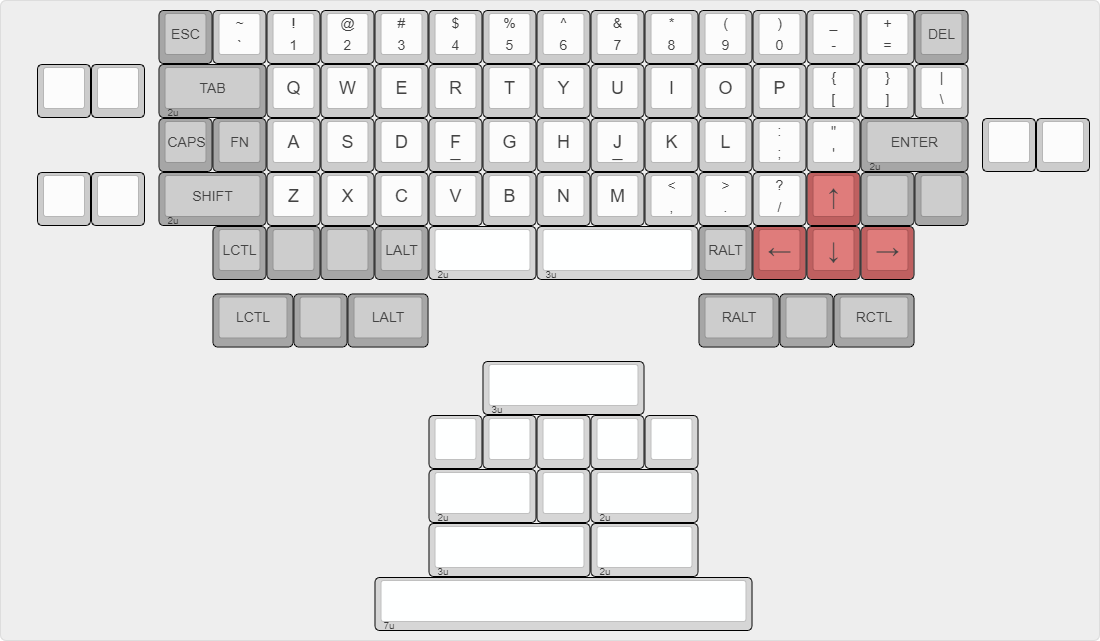
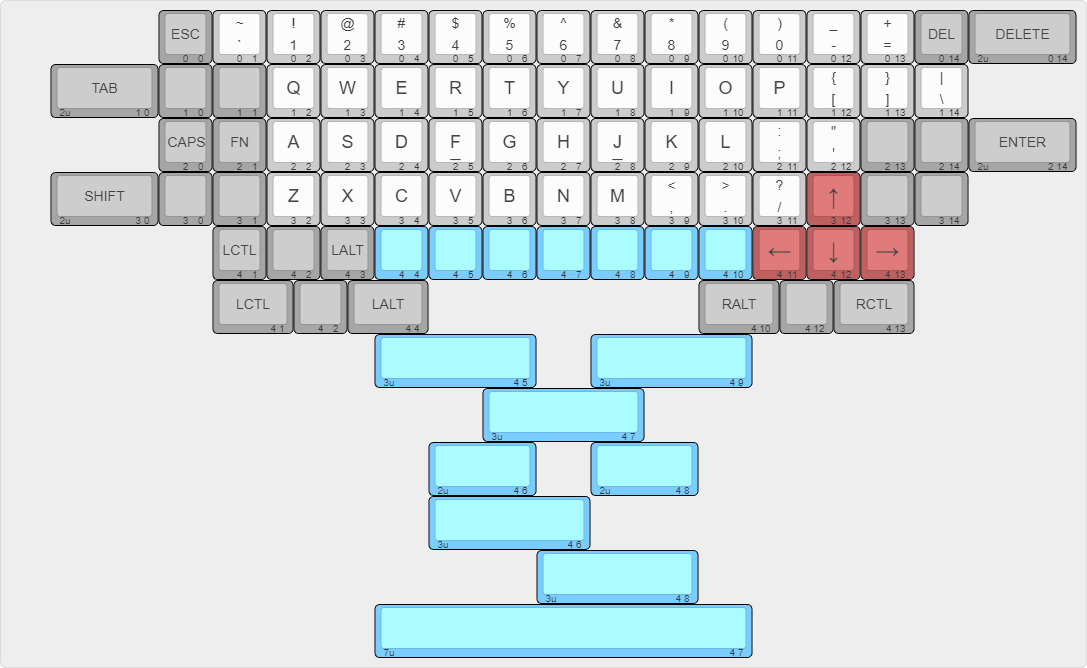
Updated readme with final layout and matrix

diff --git a/README.md b/README.md
@@ -18,21 +18,21 @@ The purpose of this keyboard is contain all of the features I would like to have
 ## Keyboard Layout Editor:
 
 ```
-[{x:2.75,c:"#a6a6a6",t:"#383838",st:"KS-3-Tea",a:7,f:4},"ESC",{c:"#cccccc",a:5},"~\n`","!\n1","@\n2","#\n3","$\n4","%\n5","^\n6","&\n7","*\n8","(\n9",")\n0","_\n-","+\n=",{c:"#a6a6a6",a:7},"DEL"],
-[{x:0.5,c:"#cccccc"},"","",{x:0.25,c:"#a6a6a6",a:3,w:2},"TAB\n\n\n\n2u",{c:"#cccccc",a:7,f:6},"Q","W","E","R","T","Y","U","I","O","P",{a:5,f:4},"{\n[","}\n]","|\n\\"],
-[{x:2.75,c:"#a6a6a6",a:7},"CAPS","FN",{c:"#cccccc",f:6},"A","S","D",{a:5},"\n_\n\n\n\n\nF",{a:7},"G","H",{a:5},"\n_\n\n\n\n\nJ",{a:7},"K","L",{a:5,f:4},":\n;","\"\n'",{c:"#a6a6a6",a:3,w:2},"ENTER\n\n\n\n2u",{x:0.25,c:"#cccccc",a:7},"",""],
-[{x:0.5},"","",{x:0.25,c:"#a6a6a6",a:3,w:2},"SHIFT\n\n\n\n2u",{c:"#cccccc",a:7,f:6},"Z","X","C","V","B","N","M",{a:5,f:4},"<\n,",">\n.","?\n/",{c:"#bf6060",a:7,f:9},"↑",{c:"#a6a6a6",f:4},"",""],
-[{x:3.75},"LCTL","","",{x:1,c:"#d6d6d6",a:3,w:2},"\n\n\n\n2u",{w:3},"\n\n\n\n3u",{c:"#a6a6a6",a:7},"RALT",{c:"#bf6060",f:9},"←","↓","→"],
-[{y:0.25,x:3.75,c:"#a6a6a6",f:4,w:1.5},"LCTL","",{x:8},"",{w:1.5},"RCTL"],
-[{y:0.25,x:8.75,c:"#d6d6d6",a:3,w:3},"\n\n\n\n3u"],
-[{y:1,x:7.75,w:2},"\n\n\n\n2u",{x:1,w:2},"\n\n\n\n2u"],
-[{x:7.75,w:3},"\n\n\n\n3u",{w:2},"\n\n\n\n2u"],
-[{x:6.75,w:7},"\n\n\n\n7u"],
-[{rx:0.25,y:4,x:6.5,c:"#a6a6a6",sm:"alps",a:7},"LALT"],
-[{y:0.25,x:6,w:1.5},"LALT",{x:5,w:1.5},"RALT"],
-[{y:1.25,x:7.5,c:"#d6d6d6"},"",""],
-[{x:9.5},""],
-[{rx:0.5,y:7.5,x:9.25},"","",""]
+[{x:2.75,c:"#a6a6a6",t:"#383838",st:"KS-3-Tea",a:3,f:4},"ESC\n\n\n\n\n0\n\n\n\n\n\n0",{c:"#cccccc",a:1},"~\n`\n\n\n\n1\n\n\n\n\n\n0","!\n1\n\n\n\n2\n\n\n\n\n\n0","@\n2\n\n\n\n3\n\n\n\n\n\n0","#\n3\n\n\n\n4\n\n\n\n\n\n0","$\n4\n\n\n\n5\n\n\n\n\n\n0","%\n5\n\n\n\n6\n\n\n\n\n\n0","^\n6\n\n\n\n7\n\n\n\n\n\n0","&\n7\n\n\n\n8\n\n\n\n\n\n0","*\n8\n\n\n\n9\n\n\n\n\n\n0","(\n9\n\n\n\n10\n\n\n\n\n\n0",")\n0\n\n\n\n11\n\n\n\n\n\n0","_\n-\n\n\n\n12\n\n\n\n\n\n0","+\n=\n\n\n\n13\n\n\n\n\n\n0",{c:"#a6a6a6",a:3},"DEL\n\n\n\n\n14\n\n\n\n\n\n0",{w:2},"DELETE\n\n\n\n2u\n0 14"],
+[{x:0.75,w:2},"TAB\n\n\n\n2u\n1 0","\n\n\n\n\n0\n\n\n\n\n\n1","\n\n\n\n\n1\n\n\n\n\n\n1",{c:"#cccccc",f:6},"Q\n\n\n\n\n2\n\n\n\n\n\n1","W\n\n\n\n\n3\n\n\n\n\n\n1","E\n\n\n\n\n4\n\n\n\n\n\n1","R\n\n\n\n\n5\n\n\n\n\n\n1","T\n\n\n\n\n6\n\n\n\n\n\n1","Y\n\n\n\n\n7\n\n\n\n\n\n1","U\n\n\n\n\n8\n\n\n\n\n\n1","I\n\n\n\n\n9\n\n\n\n\n\n1","O\n\n\n\n\n10\n\n\n\n\n\n1","P\n\n\n\n\n11\n\n\n\n\n\n1",{a:1,f:4},"{\n[\n\n\n\n12\n\n\n\n\n\n1","}\n]\n\n\n\n13\n\n\n\n\n\n1","|\n\\\n\n\n\n14\n\n\n\n\n\n1"],
+[{x:2.75,c:"#a6a6a6",a:3},"CAPS\n\n\n\n\n0\n\n\n\n\n\n2","FN\n\n\n\n\n1\n\n\n\n\n\n2",{c:"#cccccc",f:6},"A\n\n\n\n\n2\n\n\n\n\n\n2","S\n\n\n\n\n3\n\n\n\n\n\n2","D\n\n\n\n\n4\n\n\n\n\n\n2",{a:1},"\n_\n\n\n\n5\nF\n\n\n\n\n2",{a:3},"G\n\n\n\n\n6\n\n\n\n\n\n2","H\n\n\n\n\n7\n\n\n\n\n\n2",{a:1},"\n_\n\n\n\n8\nJ\n\n\n\n\n2",{a:3},"K\n\n\n\n\n9\n\n\n\n\n\n2","L\n\n\n\n\n10\n\n\n\n\n\n2",{a:1,f:4},":\n;\n\n\n\n11\n\n\n\n\n\n2","\"\n'\n\n\n\n12\n\n\n\n\n\n2",{c:"#a6a6a6",a:3},"\n\n\n\n\n13\n\n\n\n\n\n2","\n\n\n\n\n14\n\n\n\n\n\n2",{w:2},"ENTER\n\n\n\n2u\n2 14"],
+[{x:0.75,w:2},"SHIFT\n\n\n\n2u\n3 0","\n\n\n\n\n0\n\n\n\n\n\n3","\n\n\n\n\n1\n\n\n\n\n\n3",{c:"#cccccc",f:6},"Z\n\n\n\n\n2\n\n\n\n\n\n3","X\n\n\n\n\n3\n\n\n\n\n\n3","C\n\n\n\n\n4\n\n\n\n\n\n3","V\n\n\n\n\n5\n\n\n\n\n\n3","B\n\n\n\n\n6\n\n\n\n\n\n3","N\n\n\n\n\n7\n\n\n\n\n\n3","M\n\n\n\n\n8\n\n\n\n\n\n3",{a:1,f:4},"<\n,\n\n\n\n9\n\n\n\n\n\n3",">\n.\n\n\n\n10\n\n\n\n\n\n3","?\n/\n\n\n\n11\n\n\n\n\n\n3",{c:"#bf6060",a:3,f:9},"↑\n\n\n\n\n12\n\n\n\n\n\n3",{c:"#a6a6a6",f:4},"\n\n\n\n\n13\n\n\n\n\n\n3","\n\n\n\n\n14\n\n\n\n\n\n3"],
+[{x:3.75},"LCTL\n\n\n\n\n1\n\n\n\n\n\n4","\n\n\n\n\n2\n\n\n\n\n\n4","LALT\n\n\n\n\n3\n\n\n\n\n\n4",{x:6,c:"#7acdff"},"\n\n\n\n\n10\n\n\n\n\n\n4",{c:"#bf6060",f:9},"←\n\n\n\n\n11\n\n\n\n\n\n4","↓\n\n\n\n\n12\n\n\n\n\n\n4","→\n\n\n\n\n13\n\n\n\n\n\n4"],
+[{x:3.75,c:"#a6a6a6",f:4,w:1.5},"LCTL\n\n\n\n\n4 1","\n\n\n\n\n2\n\n\n\n\n\n4",{x:8},"\n\n\n\n\n4 12",{w:1.5},"RCTL\n\n\n\n\n4 13"],
+[{x:6.75,c:"#7acdff",w:3},"\n\n\n\n3u\n4 5",{x:1,w:3},"\n\n\n\n3u\n4 9"],
+[{x:8.75,w:3},"\n\n\n\n3u\n4 7"],
+[{x:7.75,w:2},"\n\n\n\n2u\n4 6",{x:1,w:2},"\n\n\n\n2u\n4 8"],
+[{x:7.75,w:3},"\n\n\n\n3u\n4 6"],
+[{x:9.75,w:3},"\n\n\n\n3u\n4 8"],
+[{x:6.75,w:7},"\n\n\n\n7u\n4 7"],
+[{rx:0.25,y:4,x:6.5,sm:"alps"},"\n\n\n\n\n4\n\n\n\n\n\n4","\n\n\n\n\n5\n\n\n\n\n\n4","\n\n\n\n\n6\n\n\n\n\n\n4"],
+[{x:6,c:"#a6a6a6",w:1.5},"LALT\n\n\n\n\n4 4",{x:5,w:1.5},"RALT\n\n\n\n\n4 10"],
+[{rx:0.5,y:4,x:9.25,c:"#7acdff"},"\n\n\n\n\n7\n\n\n\n\n\n4","\n\n\n\n\n8\n\n\n\n\n\n4","\n\n\n\n\n9\n\n\n\n\n\n4"]
 ```
 
 ---
